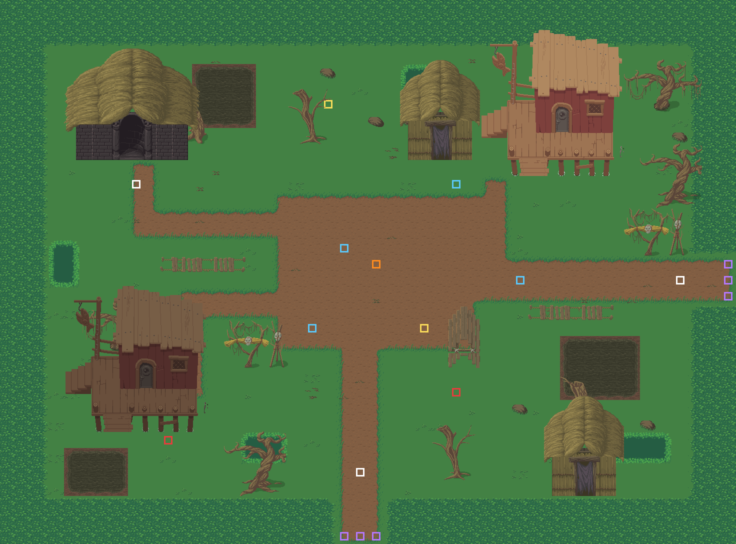
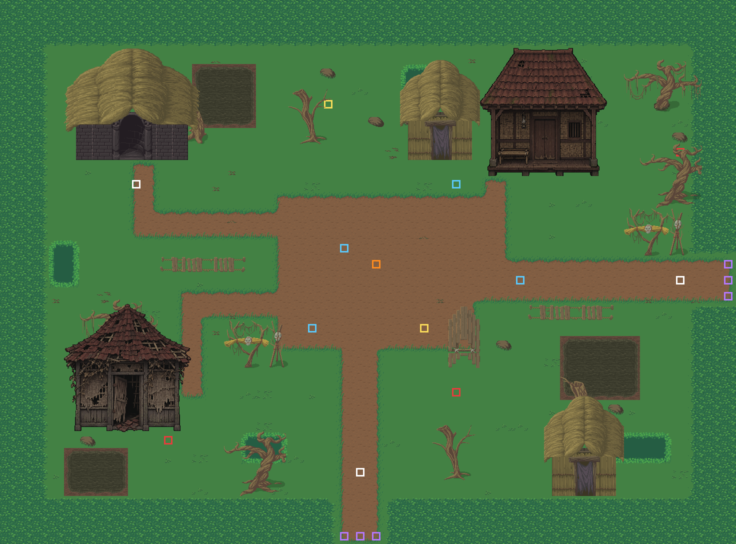
feat(aset): tambah rumah adat Jawa (limasan dan rumah tua runtuh) buatan Codex
- prompt & gambar mentah di assets/raw/codex (PROMPT_rumah.md), diproses build_codex()
- menggantikan dua rumah panggung di Desa Karangtumbal; tercatat di CREDITS
- perbaikan: musuh di Desa (35,9) dulu terkurung di dalam tapak rumah, dipindah ke (42,9)

diff --git a/tools/make_maps.py b/tools/make_maps.py
@@ -477,7 +477,7 @@ def map_desa():
     g[17][W - 4] = 'E'                        # tiba dari ladang
     g[H - 4][22] = 'J'                        # ujung jalan selatan
     g[20][26] = 'L'; g[25][36] = 'L'; g[6][20] = 'L'
-    g[24][28] = 'M'; g[9][35] = 'M'; g[27][10] = 'M'
+    g[24][28] = 'M'; g[9][42] = 'M'; g[27][10] = 'M'   # (42,9): di luar tapak rumah limasan
     rows = [''.join(r) for r in g]
 
     b = MapBuilder('Desa Karangtumbal', rows, ['rumput', 'tanah', 'semak', 'hutan', 'lumpur', 'dekor', 'tabrak'])
@@ -509,8 +509,9 @@ def map_desa():
     lw, lh = b.prop('lumbung.png', 4, 9, foot=(0, 9, 3))
     # pintu lumbung = tile gerbang di baris bawah bangunan
     b.obj('door', 8, 9, to=LORONG_LUMBUNG, spawn='dari_desa', dir=1)
-    b.prop('rumah_panggung.png', 30, 10, foot=(1, 8, 3))
-    b.prop('rumah_panggung_tua.png', 4, 26, foot=(1, 8, 3))
+    # rumah adat Jawa (limasan) dan rumah kampung tua yang runtuh
+    b.prop('rumah_limasan.png', 30, 10, foot=(0, 8, 3))
+    b.prop('rumah_jawa_tua.png', 4, 26, foot=(0, 8, 3))
     b.prop('gubuk.png', 34, 30, foot=(0, 5, 2))
     b.prop('gubuk.png', 25, 9, foot=(0, 5, 2))
     for (tx, ty, img) in [(18, 8, 'pohon_mati_a.png'), (40, 12, 'pohon_mati_b.png'), (5, 21, 'pohon_mati_c.png'),

diff --git a/tools/build_assets.py b/tools/build_assets.py
@@ -513,6 +513,9 @@ def build_codex():
         im = _trim(_degrid(os.path.join(CODEX, src), 8))
         im = im.resize((int(im.width * k), int(im.height * k)), Image.NEAREST)
         im.resize((im.width * 2, im.height * 2), Image.NEAREST).save(os.path.join(BATTLERS, out))
+    # rumah adat Jawa (limasan & rumah tua runtuh): grid 4 -> 1 sel = 1 px, 8 tile lebar
+    for src, out in [('rumah_limasan.png', 'rumah_limasan.png'), ('rumah_tua.png', 'rumah_jawa_tua.png')]:
+        save_prop(_night(_trim(_degrid(os.path.join(CODEX, src), 4)), 0.72, 0.62), out)
     head = _trim(_degrid(os.path.join(CODEX, 'buto_kepala.png'), 8))
     save_prop(_night(head, 0.8), 'buto_peta.png')
     # lembar props ladang: grid 4 -> 1 sel = 1 px, sudah seskala tile 32 px

diff --git a/assets/raw/codex/PROMPT_rumah.md b/assets/raw/codex/PROMPT_rumah.md
@@ -1,0 +1,30 @@
+You are producing ORIGINAL pixel-art game assets for "TUMBAL", a dark Indonesian-folklore JRPG
+(retelling of Timun Mas & Buto Ijo, set in a poor Javanese village). Use your image generation tool.
+Do not imitate any existing game, film, or artist's work. Save every image as PNG at the exact path given.
+
+Global style (match the attached reference sheet of buildings already in the game):
+- Top-down 3/4 view like RPG Maker XP maps, the SAME pixel density and scale as the reference
+  (1 tile = 32 px at final size; a doorway is about 2 tiles tall).
+- Clean dark outlines, limited earthy palette, soft dithered shading, no blur, no text, no watermark.
+- Mood: dark, night-time, poor and weathered village. Desaturated browns, grey-brown wood, dull red clay tiles.
+- Background: a SINGLE flat solid magenta color #FF00FF outside the subject (no checkerboard, no ground,
+  no cast shadow on the background). Each building fully inside its canvas, base touching the bottom.
+- No religious symbols of any kind.
+
+Images to create:
+
+1. assets/raw/codex/rumah_limasan.png  (square canvas, e.g. 1024x1024)
+   A traditional Javanese village house of the "limasan" type seen from the front in 3/4 top-down view:
+   a wide hipped roof of dull terracotta clay tiles (four sloping sides, long ridge), the roof is large and
+   low compared to the walls; walls of woven bamboo panels (gedek) between dark teak posts; a small front
+   porch (emper) under the roof overhang with two wooden posts and a low wooden bench (lincak); a plain
+   wooden double door in the middle and one small window with wooden bars. Weathered, a few cracked and
+   missing roof tiles, moss on the roof, a hanging oil lamp (unlit). Final footprint about 8 tiles wide,
+   total height about 8-9 tiles including the roof.
+
+2. assets/raw/codex/rumah_tua.png  (square canvas)
+   The same kind of Javanese "kampung" house but abandoned and partly collapsed: sagging pyramid-like roof
+   with many missing clay tiles exposing the bamboo rafters, torn woven bamboo walls, a broken door hanging
+   open, dried vines, a small pile of broken roof tiles in front. Same scale and footprint as image 1.
+
+When done, reply with the list of saved file paths only.

diff --git a/docs/PLAN_V2.md b/docs/PLAN_V2.md
@@ -177,7 +177,8 @@ setiap pembuat. Tile 32×32 gaya RPG Maker XP, cocok dengan nuansa BS1.
 1. Battler **Buto Ijo** (boss 3 bagian) dan **Memedi Sawah** (mini-boss orang-orangan sawah).
 2. Potret & sprite **tokoh utama, Timun Mas, Mbok Srini**, warga berpakaian Jawa. *(Potret dialog untuk 9 pembicara
    sudah dipasang dari NPC Faceset + battler Codex; tokoh utama sengaja tanpa potret, seperti BS1.)*
-3. Tile **ladang timun busuk** dan **rumah desa Jawa** (Batak House dipakai sementara).
+3. Tile **ladang timun busuk** dan **rumah desa Jawa**. *(Selesai: rumah limasan & rumah tua runtuh dibuat Codex,
+   dipasang di Desa.)*
 4. Battleback **pantai garam** dan **rawa** (bila Nidhoggn tidak cocok).
 5. Semua dibuat mengikuti gaya Sevarihk/Redshrike agar tidak belang.
 

diff --git a/CREDITS.md b/CREDITS.md
@@ -31,6 +31,7 @@ diproses (latar dibuang, grid piksel dikembalikan, diskalakan) oleh `tools/build
 | Memedi Sawah (battler + sprite peta) | boss Ladang Timun Busuk |
 | Timun Busuk (battler) | musuh ladang |
 | Props ladang: ajir timun, ajir roboh, gubuk sawah, tumpukan timun, ember, cangkul, pagar bambu | peta ladang |
+| Rumah adat Jawa: rumah limasan & rumah kampung tua yang runtuh (`PROMPT_rumah.md`) | peta Desa Karangtumbal |
 
 ## Font
 
